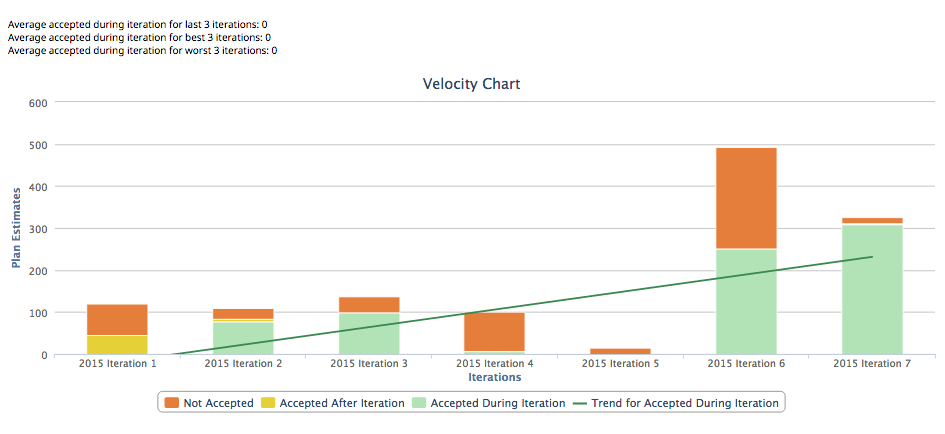
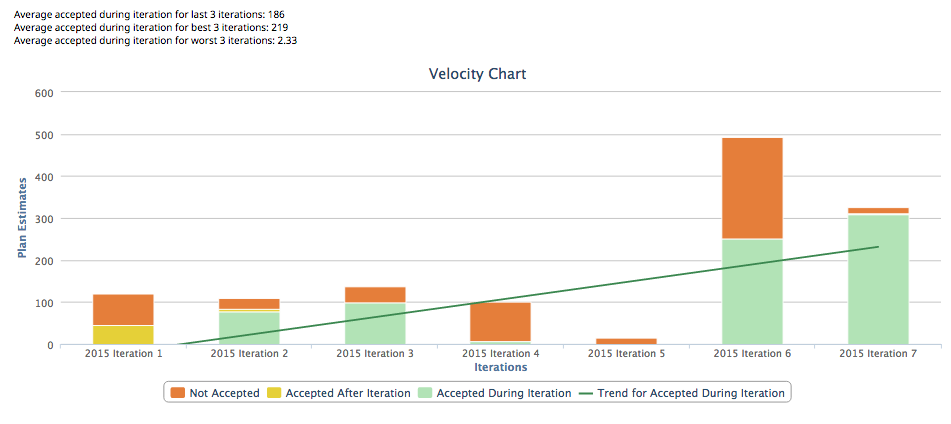
removed combined

diff --git a/deploy/App-external.html b/deploy/App-external.html
@@ -7,7 +7,7 @@
 
     <script type="text/javascript">
         Rally.onReady(function () {
-                Ext.define("CustomApp",{extend:"Rally.app.App",componentCls:"app",iterations:[],iterationPageCounter:1,filters:[],pagesize:200,items:[{xtype:"container",itemId:"statsCombined",margin:10},{xtype:"container",itemId:"stats",margin:10},{xtype:"container",itemId:"chart"}],launch:function(){this._myMask=new Ext.LoadMask(Ext.getBody(),{msg:"Calculating...Please wait."}),this._myMask.show(),this.makeInitialFilter()},makeInitialFilter:function(){var filters=[],now=new Date,today=now.toISOString().slice(0,10),context=this.getContext(),currentProjectRef=context.getProject()._ref,dateFilter=Ext.create("Rally.data.wsapi.Filter",{property:"EndDate",operator:"<",value:today});this.filters.push(dateFilter),this.applyInitialFilterToIterations()},applyInitialFilterToIterations:function(){var store=this.makeIterationStore(),iterations=[];store.addFilter(this.filters),store.loadPage(this.iterationPageCounter,{scope:this,callback:function(records,operation){operation.wasSuccessful()&&records.length>0&&(_.each(records,function(record){this.iterations.push(record.get("Name"))},this),this.getMaxNumberOfUniqueIterationNames())}})},makeIterationStore:function(){var dataScope=this.getContext().getDataContext(),store=Ext.create("Rally.data.wsapi.Store",{model:"Iteration",fetch:["ObjectID","Name","StartDate","EndDate","PlanEstimate"],context:dataScope,pageSize:this.pagesize,limit:this.pagesize,sorters:[{property:"EndDate",direction:"DESC"}]},this);return store},getMaxNumberOfUniqueIterationNames:function(){var max=10;this.iterationPageCounter++,this.iterations=_.uniq(this.iterations),this.iterations.length>10&&(this.iterations=this.iterations.slice(0,10)),max>this.iterations.length?this.applyInitialFilterToIterations():(this.iterations.reverse(),this.makeFiltersForArtifacts())},makeFiltersForArtifacts:function(){var iterationFilters=[];_.each(this.iterations,function(iteration){var filter=Ext.create("Rally.data.wsapi.Filter",{property:"Iteration.Name",value:iteration});iterationFilters.push(filter)}),this.makeArtifactStore(iterationFilters)},makeArtifactStore:function(iterationFilters){var numOfIterations=iterationFilters.length;this.artifacts=Array(numOfIterations);for(var i=0;numOfIterations>i;i++)this.artifacts[i]=[];this.iterationFilters=iterationFilters,this.artifactStore=Ext.create("Rally.data.wsapi.artifact.Store",{models:["Defect","DefectSuite","UserStory"],fetch:["ObjectID","Name","FormattedID","ScheduleState","PlanEstimate","AcceptedDate","Iteration","Project","StartDate","EndDate"],limit:1/0}),this.applyIterationFiltersToArtifactStore(0)},applyIterationFiltersToArtifactStore:function(i){this.artifactStore.addFilter(this.iterationFilters[i]),this.artifactStore.load({scope:this,callback:function(records,operation){operation.wasSuccessful()&&(_.each(records,function(record){this.artifacts[i].push({_ref:record.get("_ref"),FormattedID:record.get("FormattedID"),Name:record.get("Name"),PlanEstimate:record.get("PlanEstimate"),ScheduleState:record.get("ScheduleState"),AcceptedDate:record.get("AcceptedDate")&&Rally.util.DateTime.toIsoString(record.get("AcceptedDate"))||null,ProjectName:record.get("Project")._refObjectName,IterationName:record.get("Iteration")._refObjectName,IterationRef:record.get("Iteration")._ref,IterationStartDate:record.get("Iteration").StartDate,IterationEndDate:record.get("Iteration").EndDate,IterationPlanEstimate:record.get("Iteration").PlanEstimate})},this),this.artifactStore.clearFilter(records.length),this.iterationFilters.length-1>i?this.applyIterationFiltersToArtifactStore(i+1):this.prepareChart())}})},prepareChart:function(){var series=[],categories=[],acceptedDuringIteration=[],acceptedAfterIteration=[],notAccepted=[];this.artifacts=_.filter(this.artifacts,function(artifactsPerIterationName){return 0!==artifactsPerIterationName.length}),_.each(this.artifacts,function(artifactsPerIterationName){var pointsAcceptedDuringIteration=0,pointsAcceptedAfterIteration=0,pointsNotAccepted=0,data=[],name=artifactsPerIterationName[0].IterationName;categories.push(name),_.each(artifactsPerIterationName,function(artifact){null===artifact.AcceptedDate?pointsNotAccepted+=artifact.PlanEstimate:artifact.AcceptedDate>=artifact.IterationStartDate&&artifact.AcceptedDate<=artifact.IterationEndDate?pointsAcceptedDuringIteration+=artifact.PlanEstimate:pointsAcceptedAfterIteration+=artifact.PlanEstimate}),acceptedDuringIteration.push(pointsAcceptedDuringIteration),acceptedAfterIteration.push(pointsAcceptedAfterIteration),notAccepted.push(pointsNotAccepted)},this),series.push({name:"Not Accepted",data:notAccepted}),series.push({name:"Accepted After Iteration",data:acceptedAfterIteration}),series.push({name:"Accepted During Iteration",data:acceptedDuringIteration}),this.makeChart(series,categories)},makeChart:function(series,categories){for(var few=3,accepted=[],numOfIterations=categories.length,lastFewAccepted=[],bestFewAccepted=[],worstFewAccepted=[],avgLast=0,avgBest=0,avgWorst=0,totalLast=0,totalBest=0,totalWorst=0,i=0;numOfIterations>i;i++)accepted.push(series[2].data[i]);var yValues=series[2].data,xValues=[];for(i=0;numOfIterations>i;i++)xValues.push(i);var lr=this.calculateTrend(yValues,xValues),minX=0,maxX=categories.length-1;series.push({name:"Trend for Accepted During Iteration",type:"line",data:[[minX,lr.slope*minX+lr.intercept],[maxX,lr.slope*maxX+lr.intercept]],marker:{enabled:!1},enableMouseTracking:!1}),lastFewAccepted=_.last(accepted,few),bestFewAccepted=_.last(accepted.sort(function(a,b){return a-b}),few),worstFewAccepted=_.last(accepted.sort(function(a,b){return b-a}),few),_.each(lastFewAccepted,function(element){totalLast+=element}),_.each(bestFewAccepted,function(element){totalBest+=element}),_.each(worstFewAccepted,function(element){totalWorst+=element}),avgLast=parseFloat(parseFloat(totalLast/few).toFixed(2)),avgBest=parseFloat(parseFloat(totalBest/few).toFixed(2)),avgWorst=parseFloat(parseFloat(totalWorst/few).toFixed(2)),Ext.ComponentQuery.query("container[itemId=stats]")[0].update("Average accepted during iteration for last 3 iterations: "+avgLast+"</br>"+"Average accepted during iteration for best 3 iterations: "+avgBest+"</br>"+"Average accepted during iteration for worst 3 iterations: "+avgWorst+"</br>"),this._myMask.hide(),this.down("#chart").add({xtype:"rallychart",chartConfig:{chart:{type:"column",zoomType:"xy"},title:{text:"Velocity Chart"},xAxis:{title:{text:"Iterations"}},yAxis:{title:{text:"Plan Estimates"},allowDecimals:!1,min:0},plotOptions:{column:{stacking:"normal"}}},chartData:{series:series,categories:categories}})},calculateTrend:function(y,x){for(var lr={},n=y.length,sum_x=0,sum_y=0,sum_xy=0,sum_xx=0,sum_yy=0,i=0;y.length>i;i++)sum_x+=x[i],sum_y+=y[i],sum_xy+=x[i]*y[i],sum_xx+=x[i]*x[i],sum_yy+=y[i]*y[i];return lr.slope=(n*sum_xy-sum_x*sum_y)/(n*sum_xx-sum_x*sum_x),lr.intercept=(sum_y-lr.slope*sum_x)/n,lr.r2=Math.pow((n*sum_xy-sum_x*sum_y)/Math.sqrt((n*sum_xx-sum_x*sum_x)*(n*sum_yy-sum_y*sum_y)),2),lr}});
+                Ext.define("CustomApp",{extend:"Rally.app.App",componentCls:"app",iterations:[],iterationPageCounter:1,filters:[],pagesize:200,items:[{xtype:"container",itemId:"stats",margin:10},{xtype:"container",itemId:"chart"}],launch:function(){this._myMask=new Ext.LoadMask(Ext.getBody(),{msg:"Calculating...Please wait."}),this._myMask.show(),this.makeInitialFilter()},makeInitialFilter:function(){var filters=[],now=new Date,today=now.toISOString().slice(0,10),context=this.getContext(),currentProjectRef=context.getProject()._ref,dateFilter=Ext.create("Rally.data.wsapi.Filter",{property:"EndDate",operator:"<",value:today});this.filters.push(dateFilter),this.applyInitialFilterToIterations()},applyInitialFilterToIterations:function(){var store=this.makeIterationStore(),iterations=[];store.addFilter(this.filters),store.loadPage(this.iterationPageCounter,{scope:this,callback:function(records,operation){operation.wasSuccessful()&&records.length>0&&(_.each(records,function(record){this.iterations.push(record.get("Name"))},this),this.getMaxNumberOfUniqueIterationNames())}})},makeIterationStore:function(){var dataScope=this.getContext().getDataContext(),store=Ext.create("Rally.data.wsapi.Store",{model:"Iteration",fetch:["ObjectID","Name","StartDate","EndDate","PlanEstimate"],context:dataScope,pageSize:this.pagesize,limit:this.pagesize,sorters:[{property:"EndDate",direction:"DESC"}]},this);return store},getMaxNumberOfUniqueIterationNames:function(){var max=10;this.iterationPageCounter++,this.iterations=_.uniq(this.iterations),this.iterations.length>10&&(this.iterations=this.iterations.slice(0,10)),max>this.iterations.length?this.applyInitialFilterToIterations():(this.iterations.reverse(),this.makeFiltersForArtifacts())},makeFiltersForArtifacts:function(){var iterationFilters=[];_.each(this.iterations,function(iteration){var filter=Ext.create("Rally.data.wsapi.Filter",{property:"Iteration.Name",value:iteration});iterationFilters.push(filter)}),this.makeArtifactStore(iterationFilters)},makeArtifactStore:function(iterationFilters){var numOfIterations=iterationFilters.length;this.artifacts=Array(numOfIterations);for(var i=0;numOfIterations>i;i++)this.artifacts[i]=[];this.iterationFilters=iterationFilters,this.artifactStore=Ext.create("Rally.data.wsapi.artifact.Store",{models:["Defect","DefectSuite","UserStory"],fetch:["ObjectID","Name","FormattedID","ScheduleState","PlanEstimate","AcceptedDate","Iteration","Project","StartDate","EndDate"],limit:1/0}),this.applyIterationFiltersToArtifactStore(0)},applyIterationFiltersToArtifactStore:function(i){this.artifactStore.addFilter(this.iterationFilters[i]),this.artifactStore.load({scope:this,callback:function(records,operation){operation.wasSuccessful()&&(_.each(records,function(record){this.artifacts[i].push({_ref:record.get("_ref"),FormattedID:record.get("FormattedID"),Name:record.get("Name"),PlanEstimate:record.get("PlanEstimate"),ScheduleState:record.get("ScheduleState"),AcceptedDate:record.get("AcceptedDate")&&Rally.util.DateTime.toIsoString(record.get("AcceptedDate"))||null,ProjectName:record.get("Project")._refObjectName,IterationName:record.get("Iteration")._refObjectName,IterationRef:record.get("Iteration")._ref,IterationStartDate:record.get("Iteration").StartDate,IterationEndDate:record.get("Iteration").EndDate,IterationPlanEstimate:record.get("Iteration").PlanEstimate})},this),this.artifactStore.clearFilter(records.length),this.iterationFilters.length-1>i?this.applyIterationFiltersToArtifactStore(i+1):this.prepareChart())}})},prepareChart:function(){var series=[],categories=[],acceptedDuringIteration=[],acceptedAfterIteration=[],notAccepted=[];this.artifacts=_.filter(this.artifacts,function(artifactsPerIterationName){return 0!==artifactsPerIterationName.length}),_.each(this.artifacts,function(artifactsPerIterationName){var pointsAcceptedDuringIteration=0,pointsAcceptedAfterIteration=0,pointsNotAccepted=0,data=[],name=artifactsPerIterationName[0].IterationName;categories.push(name),_.each(artifactsPerIterationName,function(artifact){null===artifact.AcceptedDate?pointsNotAccepted+=artifact.PlanEstimate:artifact.AcceptedDate>=artifact.IterationStartDate&&artifact.AcceptedDate<=artifact.IterationEndDate?pointsAcceptedDuringIteration+=artifact.PlanEstimate:pointsAcceptedAfterIteration+=artifact.PlanEstimate}),acceptedDuringIteration.push(pointsAcceptedDuringIteration),acceptedAfterIteration.push(pointsAcceptedAfterIteration),notAccepted.push(pointsNotAccepted)},this),series.push({name:"Not Accepted",data:notAccepted}),series.push({name:"Accepted After Iteration",data:acceptedAfterIteration}),series.push({name:"Accepted During Iteration",data:acceptedDuringIteration}),this.makeChart(series,categories)},makeChart:function(series,categories){for(var few=3,accepted=[],numOfIterations=categories.length,lastFewAccepted=[],bestFewAccepted=[],worstFewAccepted=[],avgLast=0,avgBest=0,avgWorst=0,totalLast=0,totalBest=0,totalWorst=0,i=0;numOfIterations>i;i++)accepted.push(series[2].data[i]);var yValues=series[2].data,xValues=[];for(i=0;numOfIterations>i;i++)xValues.push(i);var lr=this.calculateTrend(yValues,xValues),minX=0,maxX=categories.length-1;series.push({name:"Trend for Accepted During Iteration",type:"line",data:[[minX,lr.slope*minX+lr.intercept],[maxX,lr.slope*maxX+lr.intercept]],marker:{enabled:!1},enableMouseTracking:!1}),lastFewAccepted=_.last(accepted,few),bestFewAccepted=_.last(accepted.sort(function(a,b){return a-b}),few),worstFewAccepted=_.last(accepted.sort(function(a,b){return b-a}),few),_.each(lastFewAccepted,function(element){totalLast+=element}),_.each(bestFewAccepted,function(element){totalBest+=element}),_.each(worstFewAccepted,function(element){totalWorst+=element}),avgLast=parseFloat(parseFloat(totalLast/few).toFixed(2)),avgBest=parseFloat(parseFloat(totalBest/few).toFixed(2)),avgWorst=parseFloat(parseFloat(totalWorst/few).toFixed(2)),Ext.ComponentQuery.query("container[itemId=stats]")[0].update("Average accepted during iteration for last 3 iterations: "+avgLast+"</br>"+"Average accepted during iteration for best 3 iterations: "+avgBest+"</br>"+"Average accepted during iteration for worst 3 iterations: "+avgWorst+"</br>"),this._myMask.hide(),this.down("#chart").add({xtype:"rallychart",chartConfig:{chart:{type:"column",zoomType:"xy"},title:{text:"Velocity Chart"},xAxis:{title:{text:"Iterations"}},yAxis:{title:{text:"Plan Estimates"},allowDecimals:!1,min:0},plotOptions:{column:{stacking:"normal"}}},chartData:{series:series,categories:categories}})},calculateTrend:function(y,x){for(var lr={},n=y.length,sum_x=0,sum_y=0,sum_xy=0,sum_xx=0,sum_yy=0,i=0;y.length>i;i++)sum_x+=x[i],sum_y+=y[i],sum_xy+=x[i]*y[i],sum_xx+=x[i]*x[i],sum_yy+=y[i]*y[i];return lr.slope=(n*sum_xy-sum_x*sum_y)/(n*sum_xx-sum_x*sum_x),lr.intercept=(sum_y-lr.slope*sum_x)/n,lr.r2=Math.pow((n*sum_xy-sum_x*sum_y)/Math.sqrt((n*sum_xx-sum_x*sum_x)*(n*sum_yy-sum_y*sum_y)),2),lr}});
 
             Rally.launchApp('CustomApp', {
                 name:"EVC",

diff --git a/deploy/App.html b/deploy/App.html
@@ -7,7 +7,7 @@
 
     <script type="text/javascript">
         Rally.onReady(function () {
-                Ext.define("CustomApp",{extend:"Rally.app.App",componentCls:"app",iterations:[],iterationPageCounter:1,filters:[],pagesize:200,items:[{xtype:"container",itemId:"statsCombined",margin:10},{xtype:"container",itemId:"stats",margin:10},{xtype:"container",itemId:"chart"}],launch:function(){this._myMask=new Ext.LoadMask(Ext.getBody(),{msg:"Calculating...Please wait."}),this._myMask.show(),this.makeInitialFilter()},makeInitialFilter:function(){var filters=[],now=new Date,today=now.toISOString().slice(0,10),context=this.getContext(),currentProjectRef=context.getProject()._ref,dateFilter=Ext.create("Rally.data.wsapi.Filter",{property:"EndDate",operator:"<",value:today});this.filters.push(dateFilter),this.applyInitialFilterToIterations()},applyInitialFilterToIterations:function(){var store=this.makeIterationStore(),iterations=[];store.addFilter(this.filters),store.loadPage(this.iterationPageCounter,{scope:this,callback:function(records,operation){operation.wasSuccessful()&&records.length>0&&(_.each(records,function(record){this.iterations.push(record.get("Name"))},this),this.getMaxNumberOfUniqueIterationNames())}})},makeIterationStore:function(){var dataScope=this.getContext().getDataContext(),store=Ext.create("Rally.data.wsapi.Store",{model:"Iteration",fetch:["ObjectID","Name","StartDate","EndDate","PlanEstimate"],context:dataScope,pageSize:this.pagesize,limit:this.pagesize,sorters:[{property:"EndDate",direction:"DESC"}]},this);return store},getMaxNumberOfUniqueIterationNames:function(){var max=10;this.iterationPageCounter++,this.iterations=_.uniq(this.iterations),this.iterations.length>10&&(this.iterations=this.iterations.slice(0,10)),max>this.iterations.length?this.applyInitialFilterToIterations():(this.iterations.reverse(),this.makeFiltersForArtifacts())},makeFiltersForArtifacts:function(){var iterationFilters=[];_.each(this.iterations,function(iteration){var filter=Ext.create("Rally.data.wsapi.Filter",{property:"Iteration.Name",value:iteration});iterationFilters.push(filter)}),this.makeArtifactStore(iterationFilters)},makeArtifactStore:function(iterationFilters){var numOfIterations=iterationFilters.length;this.artifacts=Array(numOfIterations);for(var i=0;numOfIterations>i;i++)this.artifacts[i]=[];this.iterationFilters=iterationFilters,this.artifactStore=Ext.create("Rally.data.wsapi.artifact.Store",{models:["Defect","DefectSuite","UserStory"],fetch:["ObjectID","Name","FormattedID","ScheduleState","PlanEstimate","AcceptedDate","Iteration","Project","StartDate","EndDate"],limit:1/0}),this.applyIterationFiltersToArtifactStore(0)},applyIterationFiltersToArtifactStore:function(i){this.artifactStore.addFilter(this.iterationFilters[i]),this.artifactStore.load({scope:this,callback:function(records,operation){operation.wasSuccessful()&&(_.each(records,function(record){this.artifacts[i].push({_ref:record.get("_ref"),FormattedID:record.get("FormattedID"),Name:record.get("Name"),PlanEstimate:record.get("PlanEstimate"),ScheduleState:record.get("ScheduleState"),AcceptedDate:record.get("AcceptedDate")&&Rally.util.DateTime.toIsoString(record.get("AcceptedDate"))||null,ProjectName:record.get("Project")._refObjectName,IterationName:record.get("Iteration")._refObjectName,IterationRef:record.get("Iteration")._ref,IterationStartDate:record.get("Iteration").StartDate,IterationEndDate:record.get("Iteration").EndDate,IterationPlanEstimate:record.get("Iteration").PlanEstimate})},this),this.artifactStore.clearFilter(records.length),this.iterationFilters.length-1>i?this.applyIterationFiltersToArtifactStore(i+1):this.prepareChart())}})},prepareChart:function(){var series=[],categories=[],acceptedDuringIteration=[],acceptedAfterIteration=[],notAccepted=[];this.artifacts=_.filter(this.artifacts,function(artifactsPerIterationName){return 0!==artifactsPerIterationName.length}),_.each(this.artifacts,function(artifactsPerIterationName){var pointsAcceptedDuringIteration=0,pointsAcceptedAfterIteration=0,pointsNotAccepted=0,data=[],name=artifactsPerIterationName[0].IterationName;categories.push(name),_.each(artifactsPerIterationName,function(artifact){null===artifact.AcceptedDate?pointsNotAccepted+=artifact.PlanEstimate:artifact.AcceptedDate>=artifact.IterationStartDate&&artifact.AcceptedDate<=artifact.IterationEndDate?pointsAcceptedDuringIteration+=artifact.PlanEstimate:pointsAcceptedAfterIteration+=artifact.PlanEstimate}),acceptedDuringIteration.push(pointsAcceptedDuringIteration),acceptedAfterIteration.push(pointsAcceptedAfterIteration),notAccepted.push(pointsNotAccepted)},this),series.push({name:"Not Accepted",data:notAccepted}),series.push({name:"Accepted After Iteration",data:acceptedAfterIteration}),series.push({name:"Accepted During Iteration",data:acceptedDuringIteration}),this.makeChart(series,categories)},makeChart:function(series,categories){for(var few=3,accepted=[],numOfIterations=categories.length,lastFewAccepted=[],bestFewAccepted=[],worstFewAccepted=[],avgLast=0,avgBest=0,avgWorst=0,totalLast=0,totalBest=0,totalWorst=0,i=0;numOfIterations>i;i++)accepted.push(series[2].data[i]);var yValues=series[2].data,xValues=[];for(i=0;numOfIterations>i;i++)xValues.push(i);var lr=this.calculateTrend(yValues,xValues),minX=0,maxX=categories.length-1;series.push({name:"Trend for Accepted During Iteration",type:"line",data:[[minX,lr.slope*minX+lr.intercept],[maxX,lr.slope*maxX+lr.intercept]],marker:{enabled:!1},enableMouseTracking:!1}),lastFewAccepted=_.last(accepted,few),bestFewAccepted=_.last(accepted.sort(function(a,b){return a-b}),few),worstFewAccepted=_.last(accepted.sort(function(a,b){return b-a}),few),_.each(lastFewAccepted,function(element){totalLast+=element}),_.each(bestFewAccepted,function(element){totalBest+=element}),_.each(worstFewAccepted,function(element){totalWorst+=element}),avgLast=parseFloat(parseFloat(totalLast/few).toFixed(2)),avgBest=parseFloat(parseFloat(totalBest/few).toFixed(2)),avgWorst=parseFloat(parseFloat(totalWorst/few).toFixed(2)),Ext.ComponentQuery.query("container[itemId=stats]")[0].update("Average accepted during iteration for last 3 iterations: "+avgLast+"</br>"+"Average accepted during iteration for best 3 iterations: "+avgBest+"</br>"+"Average accepted during iteration for worst 3 iterations: "+avgWorst+"</br>"),this._myMask.hide(),this.down("#chart").add({xtype:"rallychart",chartConfig:{chart:{type:"column",zoomType:"xy"},title:{text:"Velocity Chart"},xAxis:{title:{text:"Iterations"}},yAxis:{title:{text:"Plan Estimates"},allowDecimals:!1,min:0},plotOptions:{column:{stacking:"normal"}}},chartData:{series:series,categories:categories}})},calculateTrend:function(y,x){for(var lr={},n=y.length,sum_x=0,sum_y=0,sum_xy=0,sum_xx=0,sum_yy=0,i=0;y.length>i;i++)sum_x+=x[i],sum_y+=y[i],sum_xy+=x[i]*y[i],sum_xx+=x[i]*x[i],sum_yy+=y[i]*y[i];return lr.slope=(n*sum_xy-sum_x*sum_y)/(n*sum_xx-sum_x*sum_x),lr.intercept=(sum_y-lr.slope*sum_x)/n,lr.r2=Math.pow((n*sum_xy-sum_x*sum_y)/Math.sqrt((n*sum_xx-sum_x*sum_x)*(n*sum_yy-sum_y*sum_y)),2),lr}});
+                Ext.define("CustomApp",{extend:"Rally.app.App",componentCls:"app",iterations:[],iterationPageCounter:1,filters:[],pagesize:200,items:[{xtype:"container",itemId:"stats",margin:10},{xtype:"container",itemId:"chart"}],launch:function(){this._myMask=new Ext.LoadMask(Ext.getBody(),{msg:"Calculating...Please wait."}),this._myMask.show(),this.makeInitialFilter()},makeInitialFilter:function(){var filters=[],now=new Date,today=now.toISOString().slice(0,10),context=this.getContext(),currentProjectRef=context.getProject()._ref,dateFilter=Ext.create("Rally.data.wsapi.Filter",{property:"EndDate",operator:"<",value:today});this.filters.push(dateFilter),this.applyInitialFilterToIterations()},applyInitialFilterToIterations:function(){var store=this.makeIterationStore(),iterations=[];store.addFilter(this.filters),store.loadPage(this.iterationPageCounter,{scope:this,callback:function(records,operation){operation.wasSuccessful()&&records.length>0&&(_.each(records,function(record){this.iterations.push(record.get("Name"))},this),this.getMaxNumberOfUniqueIterationNames())}})},makeIterationStore:function(){var dataScope=this.getContext().getDataContext(),store=Ext.create("Rally.data.wsapi.Store",{model:"Iteration",fetch:["ObjectID","Name","StartDate","EndDate","PlanEstimate"],context:dataScope,pageSize:this.pagesize,limit:this.pagesize,sorters:[{property:"EndDate",direction:"DESC"}]},this);return store},getMaxNumberOfUniqueIterationNames:function(){var max=10;this.iterationPageCounter++,this.iterations=_.uniq(this.iterations),this.iterations.length>10&&(this.iterations=this.iterations.slice(0,10)),max>this.iterations.length?this.applyInitialFilterToIterations():(this.iterations.reverse(),this.makeFiltersForArtifacts())},makeFiltersForArtifacts:function(){var iterationFilters=[];_.each(this.iterations,function(iteration){var filter=Ext.create("Rally.data.wsapi.Filter",{property:"Iteration.Name",value:iteration});iterationFilters.push(filter)}),this.makeArtifactStore(iterationFilters)},makeArtifactStore:function(iterationFilters){var numOfIterations=iterationFilters.length;this.artifacts=Array(numOfIterations);for(var i=0;numOfIterations>i;i++)this.artifacts[i]=[];this.iterationFilters=iterationFilters,this.artifactStore=Ext.create("Rally.data.wsapi.artifact.Store",{models:["Defect","DefectSuite","UserStory"],fetch:["ObjectID","Name","FormattedID","ScheduleState","PlanEstimate","AcceptedDate","Iteration","Project","StartDate","EndDate"],limit:1/0}),this.applyIterationFiltersToArtifactStore(0)},applyIterationFiltersToArtifactStore:function(i){this.artifactStore.addFilter(this.iterationFilters[i]),this.artifactStore.load({scope:this,callback:function(records,operation){operation.wasSuccessful()&&(_.each(records,function(record){this.artifacts[i].push({_ref:record.get("_ref"),FormattedID:record.get("FormattedID"),Name:record.get("Name"),PlanEstimate:record.get("PlanEstimate"),ScheduleState:record.get("ScheduleState"),AcceptedDate:record.get("AcceptedDate")&&Rally.util.DateTime.toIsoString(record.get("AcceptedDate"))||null,ProjectName:record.get("Project")._refObjectName,IterationName:record.get("Iteration")._refObjectName,IterationRef:record.get("Iteration")._ref,IterationStartDate:record.get("Iteration").StartDate,IterationEndDate:record.get("Iteration").EndDate,IterationPlanEstimate:record.get("Iteration").PlanEstimate})},this),this.artifactStore.clearFilter(records.length),this.iterationFilters.length-1>i?this.applyIterationFiltersToArtifactStore(i+1):this.prepareChart())}})},prepareChart:function(){var series=[],categories=[],acceptedDuringIteration=[],acceptedAfterIteration=[],notAccepted=[];this.artifacts=_.filter(this.artifacts,function(artifactsPerIterationName){return 0!==artifactsPerIterationName.length}),_.each(this.artifacts,function(artifactsPerIterationName){var pointsAcceptedDuringIteration=0,pointsAcceptedAfterIteration=0,pointsNotAccepted=0,data=[],name=artifactsPerIterationName[0].IterationName;categories.push(name),_.each(artifactsPerIterationName,function(artifact){null===artifact.AcceptedDate?pointsNotAccepted+=artifact.PlanEstimate:artifact.AcceptedDate>=artifact.IterationStartDate&&artifact.AcceptedDate<=artifact.IterationEndDate?pointsAcceptedDuringIteration+=artifact.PlanEstimate:pointsAcceptedAfterIteration+=artifact.PlanEstimate}),acceptedDuringIteration.push(pointsAcceptedDuringIteration),acceptedAfterIteration.push(pointsAcceptedAfterIteration),notAccepted.push(pointsNotAccepted)},this),series.push({name:"Not Accepted",data:notAccepted}),series.push({name:"Accepted After Iteration",data:acceptedAfterIteration}),series.push({name:"Accepted During Iteration",data:acceptedDuringIteration}),this.makeChart(series,categories)},makeChart:function(series,categories){for(var few=3,accepted=[],numOfIterations=categories.length,lastFewAccepted=[],bestFewAccepted=[],worstFewAccepted=[],avgLast=0,avgBest=0,avgWorst=0,totalLast=0,totalBest=0,totalWorst=0,i=0;numOfIterations>i;i++)accepted.push(series[2].data[i]);var yValues=series[2].data,xValues=[];for(i=0;numOfIterations>i;i++)xValues.push(i);var lr=this.calculateTrend(yValues,xValues),minX=0,maxX=categories.length-1;series.push({name:"Trend for Accepted During Iteration",type:"line",data:[[minX,lr.slope*minX+lr.intercept],[maxX,lr.slope*maxX+lr.intercept]],marker:{enabled:!1},enableMouseTracking:!1}),lastFewAccepted=_.last(accepted,few),bestFewAccepted=_.last(accepted.sort(function(a,b){return a-b}),few),worstFewAccepted=_.last(accepted.sort(function(a,b){return b-a}),few),_.each(lastFewAccepted,function(element){totalLast+=element}),_.each(bestFewAccepted,function(element){totalBest+=element}),_.each(worstFewAccepted,function(element){totalWorst+=element}),avgLast=parseFloat(parseFloat(totalLast/few).toFixed(2)),avgBest=parseFloat(parseFloat(totalBest/few).toFixed(2)),avgWorst=parseFloat(parseFloat(totalWorst/few).toFixed(2)),Ext.ComponentQuery.query("container[itemId=stats]")[0].update("Average accepted during iteration for last 3 iterations: "+avgLast+"</br>"+"Average accepted during iteration for best 3 iterations: "+avgBest+"</br>"+"Average accepted during iteration for worst 3 iterations: "+avgWorst+"</br>"),this._myMask.hide(),this.down("#chart").add({xtype:"rallychart",chartConfig:{chart:{type:"column",zoomType:"xy"},title:{text:"Velocity Chart"},xAxis:{title:{text:"Iterations"}},yAxis:{title:{text:"Plan Estimates"},allowDecimals:!1,min:0},plotOptions:{column:{stacking:"normal"}}},chartData:{series:series,categories:categories}})},calculateTrend:function(y,x){for(var lr={},n=y.length,sum_x=0,sum_y=0,sum_xy=0,sum_xx=0,sum_yy=0,i=0;y.length>i;i++)sum_x+=x[i],sum_y+=y[i],sum_xy+=x[i]*y[i],sum_xx+=x[i]*x[i],sum_yy+=y[i]*y[i];return lr.slope=(n*sum_xy-sum_x*sum_y)/(n*sum_xx-sum_x*sum_x),lr.intercept=(sum_y-lr.slope*sum_x)/n,lr.r2=Math.pow((n*sum_xy-sum_x*sum_y)/Math.sqrt((n*sum_xx-sum_x*sum_x)*(n*sum_yy-sum_y*sum_y)),2),lr}});
 
             Rally.launchApp('CustomApp', {
                 name:"EVC",

diff --git a/deploy/App-uncompressed.html b/deploy/App-uncompressed.html
@@ -17,10 +17,6 @@ Ext.define('CustomApp', {
     pagesize:200,
     items:[{
         xtype:'container',
-        itemId:'statsCombined',
-        margin: 10
-    },{
-        xtype:'container',
         itemId:'stats',
         margin: 10
     },{    
@@ -233,14 +229,9 @@ Ext.define('CustomApp', {
         var few = 3;
         var accepted = [];
         var numOfIterations = categories.length;
-        //var combinedAccepted = [];
         var lastFewAccepted = [];
         var bestFewAccepted = [];
         var worstFewAccepted = [];
-        
-        //var lastFewAcceptedCombined = [];
-        //var bestFewAcceptedCombined = [];
-        //var worstFewAcceptedCombined = [];
         
         var avgLast = 0;
         var avgBest = 0;
@@ -249,17 +240,9 @@ Ext.define('CustomApp', {
         var totalBest = 0;
         var totalWorst = 0;
         
-        //var avgLastCombined = 0;
-        //var avgBestCombined = 0;
-        //var avgWorstCombined = 0;
-        //var totalLastCombined = 0;
-        //var totalBestCombined = 0;
-        //var totalWorstCombined = 0;
         
         for(var i=0; i<numOfIterations; i++){
-            //var sum = series[1].data[i] + series[2].data[i];
             accepted.push(series[2].data[i]);
-            //combinedAccepted.push(sum);
         }
         
         var yValues = series[2].data;
@@ -269,8 +252,6 @@ Ext.define('CustomApp', {
         }
         
         var lr = this.calculateTrend(yValues, xValues);
-        
-        //console.log('lr', lr);
         var minX = 0;
         var maxX = categories.length-1;
         
@@ -283,30 +264,9 @@ Ext.define('CustomApp', {
             enableMouseTracking: false
         });
         
-        //console.log('combinedAccepted',combinedAccepted);
-        //console.log('accepted', accepted);
-        
-        //lastFewAcceptedCombined = _.last(combinedAccepted, few);
-        //bestFewAcceptedCombined = _.last(combinedAccepted.sort(function(a, b){return a-b;}),few);
-        //worstFewAcceptedCombined = _.last(combinedAccepted.sort(function(a, b){return b-a;}),few);
-        
-        
-        
         lastFewAccepted = _.last(accepted, few);
         bestFewAccepted = _.last(accepted.sort(function(a, b){return a-b;}),few);
         worstFewAccepted = _.last(accepted.sort(function(a, b){return b-a;}),few);
-        
-        //console.log('lastFewAccepted', lastFewAccepted);
-        //console.log('bestFewAccepted', bestFewAccepted);
-        //console.log('worstFewAccepted', worstFewAccepted);
-        
-        //_.each(lastFewAcceptedCombined, function(element){totalLastCombined += element;});
-        //_.each(bestFewAcceptedCombined, function(element){totalBestCombined += element;});
-        //_.each(worstFewAcceptedCombined, function(element){totalWorstCombined += element;});
-        
-        //avgLastCombined = parseFloat((parseFloat(totalLastCombined/few)).toFixed(2));
-        //avgBestCombined = parseFloat((parseFloat(totalBestCombined/few)).toFixed(2));
-        //avgWorstCombined = parseFloat((parseFloat(totalWorstCombined/few)).toFixed(2));
         
         _.each(lastFewAccepted, function(element){totalLast += element;});
         _.each(bestFewAccepted, function(element){totalBest += element;});
@@ -317,9 +277,6 @@ Ext.define('CustomApp', {
         avgWorst = parseFloat((parseFloat(totalWorst/few)).toFixed(2));
         
         
-        //Ext.ComponentQuery.query('container[itemId=statsCombined]')[0].update('Average accepted during and after iteration for last 3 iterations: ' + avgLastCombined +  '</br>' +
-        //                           'Average accepted during and after iteration for best 3 iterations: ' +  avgBestCombined + '</br>' +
-        //                           'Average accepted during and after iteration for worst 3 iterations: '  +  avgWorstCombined + '</br>');
         
         Ext.ComponentQuery.query('container[itemId=stats]')[0].update('Average accepted during iteration for last 3 iterations: ' + avgLast +  '</br>' +
                                    'Average accepted during iteration for best 3 iterations: ' +  avgBest + '</br>' +

diff --git a/App.js b/App.js
@@ -8,10 +8,6 @@ Ext.define('CustomApp', {
     pagesize:200,
     items:[{
         xtype:'container',
-        itemId:'statsCombined',
-        margin: 10
-    },{
-        xtype:'container',
         itemId:'stats',
         margin: 10
     },{    
@@ -224,14 +220,9 @@ Ext.define('CustomApp', {
         var few = 3;
         var accepted = [];
         var numOfIterations = categories.length;
-        //var combinedAccepted = [];
         var lastFewAccepted = [];
         var bestFewAccepted = [];
         var worstFewAccepted = [];
-        
-        //var lastFewAcceptedCombined = [];
-        //var bestFewAcceptedCombined = [];
-        //var worstFewAcceptedCombined = [];
         
         var avgLast = 0;
         var avgBest = 0;
@@ -240,17 +231,9 @@ Ext.define('CustomApp', {
         var totalBest = 0;
         var totalWorst = 0;
         
-        //var avgLastCombined = 0;
-        //var avgBestCombined = 0;
-        //var avgWorstCombined = 0;
-        //var totalLastCombined = 0;
-        //var totalBestCombined = 0;
-        //var totalWorstCombined = 0;
         
         for(var i=0; i<numOfIterations; i++){
-            //var sum = series[1].data[i] + series[2].data[i];
             accepted.push(series[2].data[i]);
-            //combinedAccepted.push(sum);
         }
         
         var yValues = series[2].data;
@@ -260,8 +243,6 @@ Ext.define('CustomApp', {
         }
         
         var lr = this.calculateTrend(yValues, xValues);
-        
-        //console.log('lr', lr);
         var minX = 0;
         var maxX = categories.length-1;
         
@@ -274,30 +255,9 @@ Ext.define('CustomApp', {
             enableMouseTracking: false
         });
         
-        //console.log('combinedAccepted',combinedAccepted);
-        //console.log('accepted', accepted);
-        
-        //lastFewAcceptedCombined = _.last(combinedAccepted, few);
-        //bestFewAcceptedCombined = _.last(combinedAccepted.sort(function(a, b){return a-b;}),few);
-        //worstFewAcceptedCombined = _.last(combinedAccepted.sort(function(a, b){return b-a;}),few);
-        
-        
-        
         lastFewAccepted = _.last(accepted, few);
         bestFewAccepted = _.last(accepted.sort(function(a, b){return a-b;}),few);
         worstFewAccepted = _.last(accepted.sort(function(a, b){return b-a;}),few);
-        
-        //console.log('lastFewAccepted', lastFewAccepted);
-        //console.log('bestFewAccepted', bestFewAccepted);
-        //console.log('worstFewAccepted', worstFewAccepted);
-        
-        //_.each(lastFewAcceptedCombined, function(element){totalLastCombined += element;});
-        //_.each(bestFewAcceptedCombined, function(element){totalBestCombined += element;});
-        //_.each(worstFewAcceptedCombined, function(element){totalWorstCombined += element;});
-        
-        //avgLastCombined = parseFloat((parseFloat(totalLastCombined/few)).toFixed(2));
-        //avgBestCombined = parseFloat((parseFloat(totalBestCombined/few)).toFixed(2));
-        //avgWorstCombined = parseFloat((parseFloat(totalWorstCombined/few)).toFixed(2));
         
         _.each(lastFewAccepted, function(element){totalLast += element;});
         _.each(bestFewAccepted, function(element){totalBest += element;});
@@ -308,9 +268,6 @@ Ext.define('CustomApp', {
         avgWorst = parseFloat((parseFloat(totalWorst/few)).toFixed(2));
         
         
-        //Ext.ComponentQuery.query('container[itemId=statsCombined]')[0].update('Average accepted during and after iteration for last 3 iterations: ' + avgLastCombined +  '</br>' +
-        //                           'Average accepted during and after iteration for best 3 iterations: ' +  avgBestCombined + '</br>' +
-        //                           'Average accepted during and after iteration for worst 3 iterations: '  +  avgWorstCombined + '</br>');
         
         Ext.ComponentQuery.query('container[itemId=stats]')[0].update('Average accepted during iteration for last 3 iterations: ' + avgLast +  '</br>' +
                                    'Average accepted during iteration for best 3 iterations: ' +  avgBest + '</br>' +
